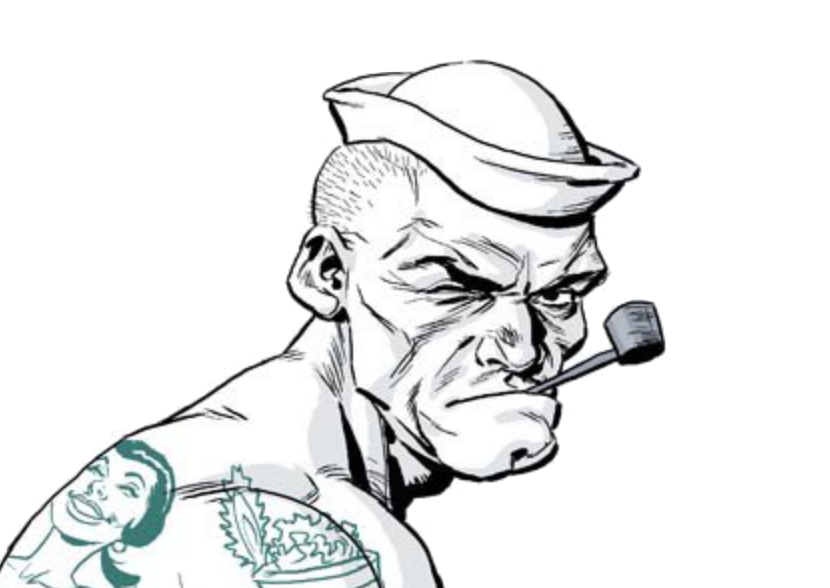
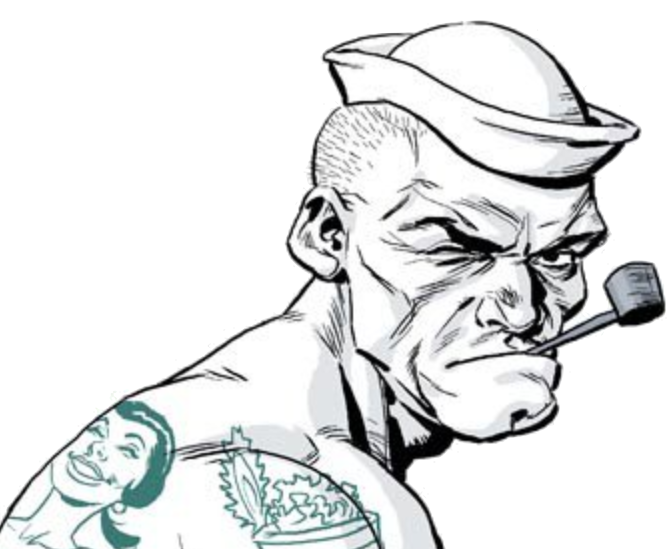
changed size of popeye and bluto face image size

diff --git a/client/src/components/LandingPage/LandingPage.css b/client/src/components/LandingPage/LandingPage.css
@@ -1,6 +1,7 @@
 .container {
     width: 450px;
     background: rgb(42, 46, 49);
+    margin: 0 1%;
 }
 
 .login-register {
@@ -100,7 +101,7 @@
 
 #popeye-face, #bluto-face {
     width: 420px;
-    height: 320px;
+    height: 350px;
     margin-top: 30px;
 }
 
@@ -120,4 +121,10 @@
 
 #color-switch {
     background-color: rgba(212, 209, 209, 0.685);
+}
+
+@media only screen and (max-width: 1300px) {
+    #popeye, #bluto, #popeye-face, #bluto-face {
+        display: none;
+    }
 }
